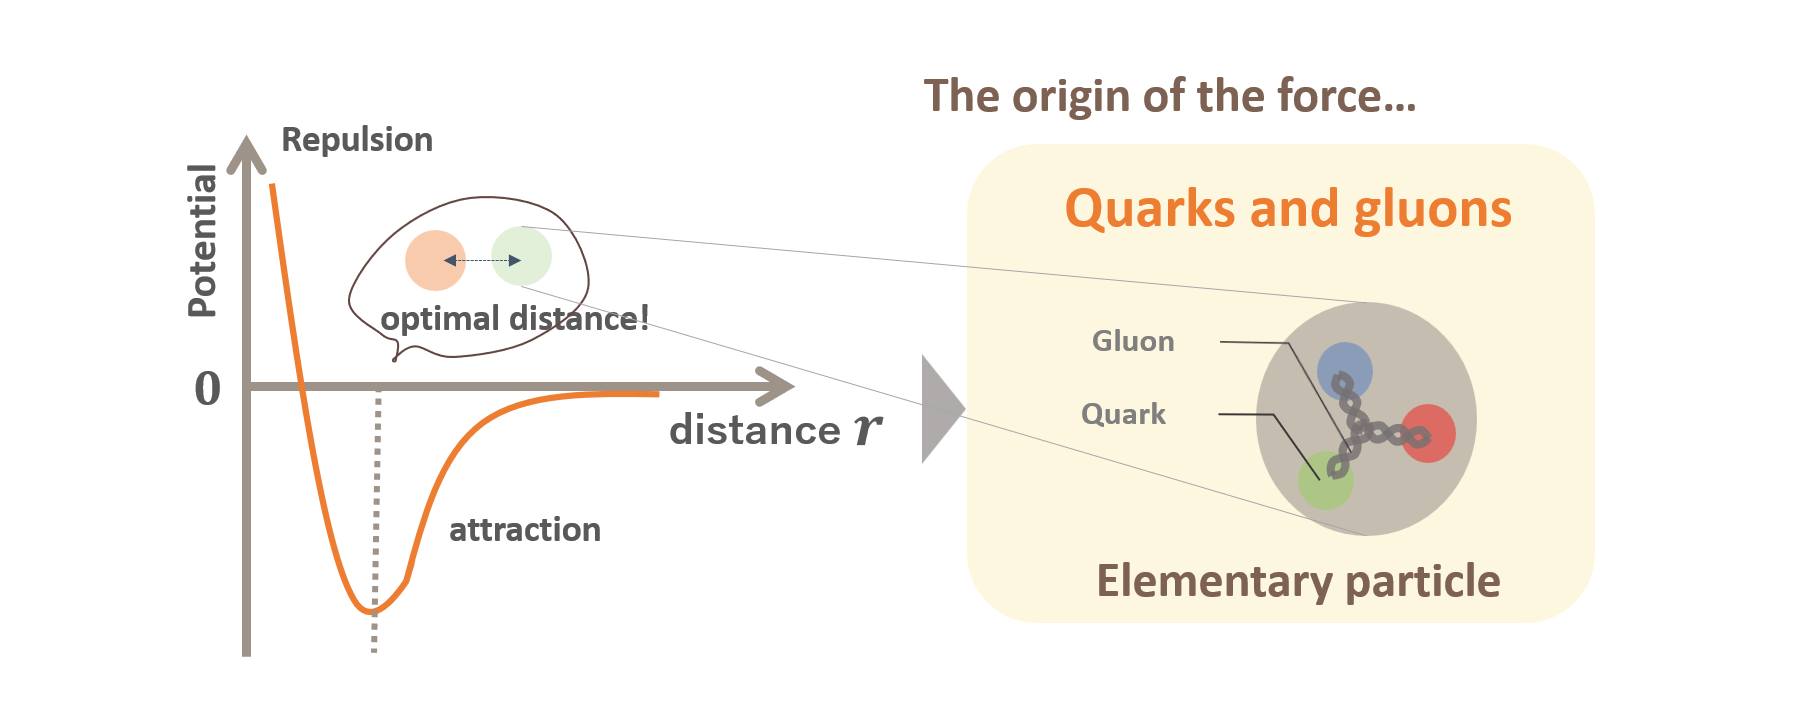
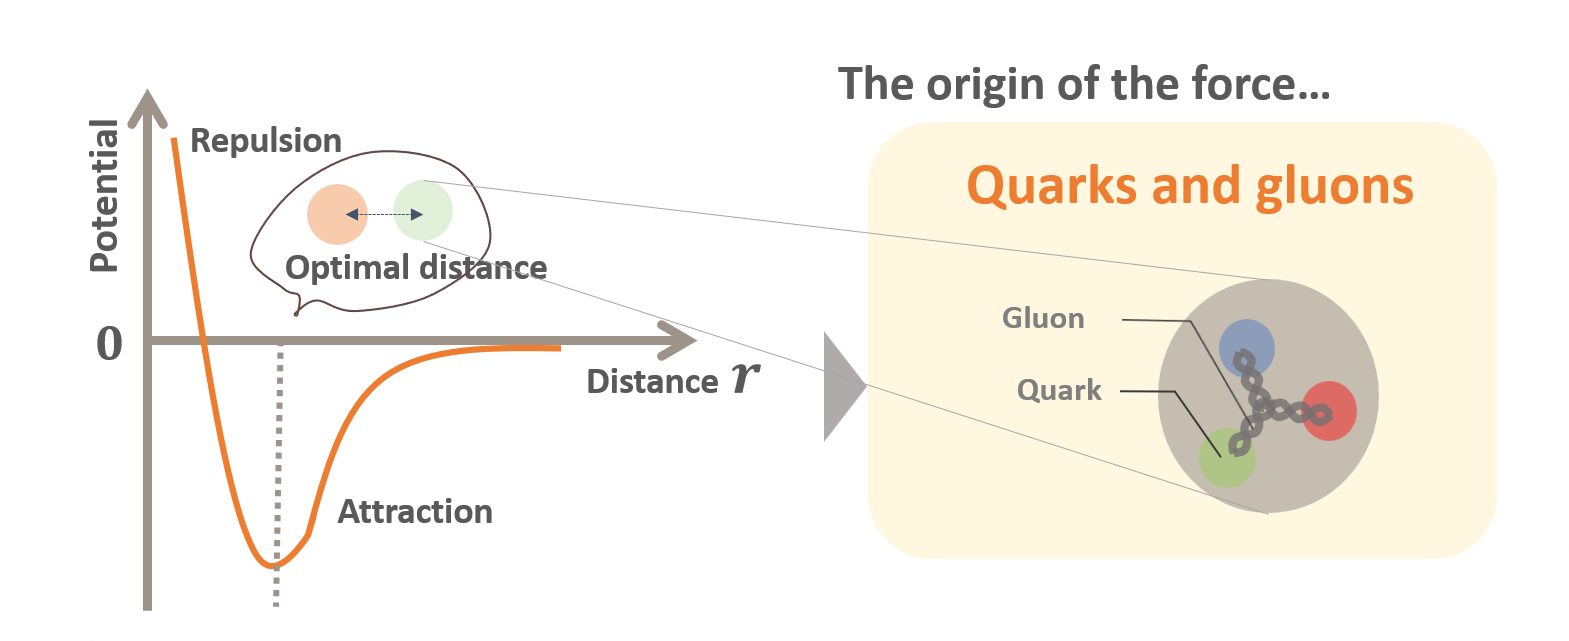
Updated StrongForce.png.

Changed region(s): [[0.0625, 0.0936, 0.9681, 0.936], [0.5934, 0.3744, 0.6558, 0.4056], [0.3748, 0.312, 0.406, 0.3432]]

diff --git a/Introduction_Physics.md b/Introduction_Physics.md
@@ -1,8 +1,10 @@
 ---
 layout: page
 title: Introduction
-subtitle: Basic concepts
+subtitle: Collection of small readings 
 ---
+
+## For general readers 
 
 - [What are we made of?](/articles/introduction/WhatAreWeMadeOf.md)
 - [What binds protons and neutrons?](/articles/introduction/StrongForce.md)
